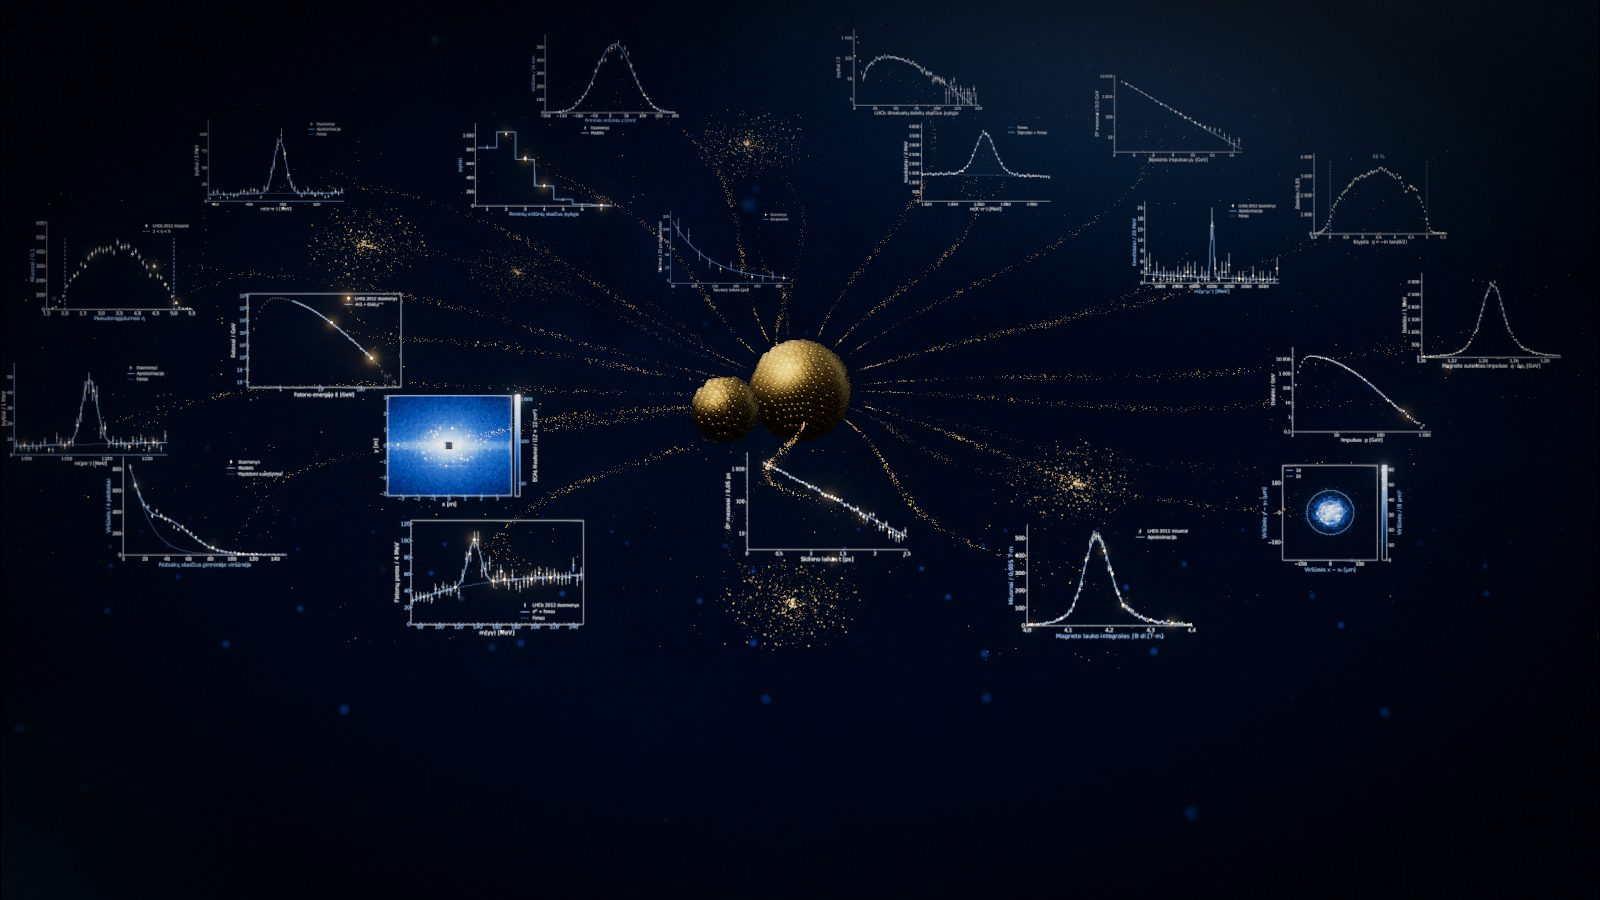
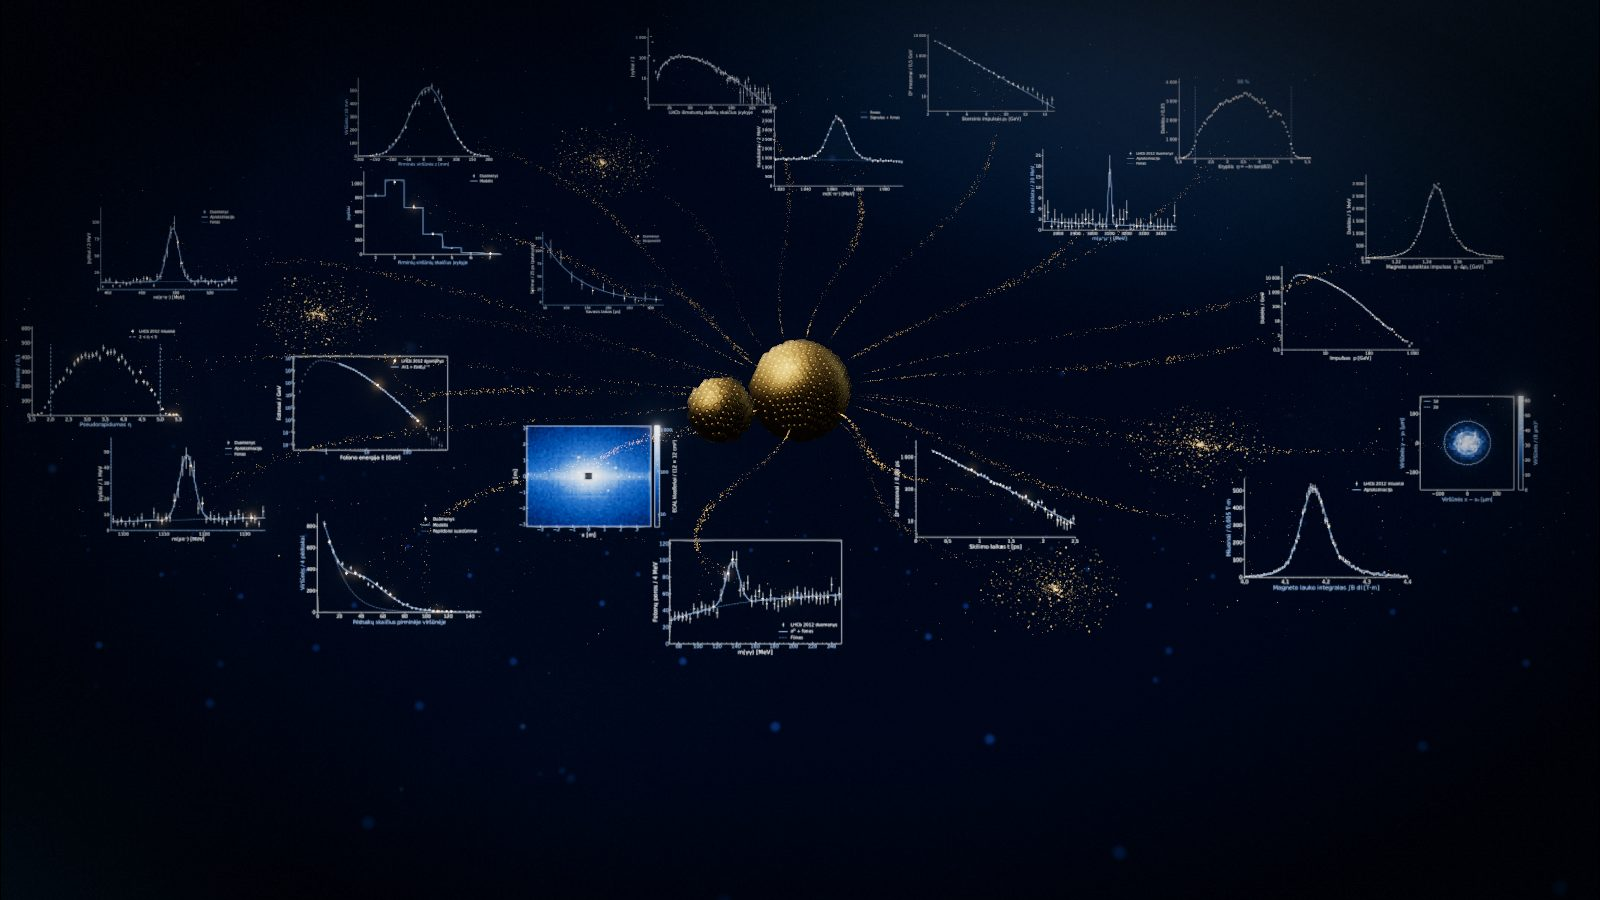
docs(opendata): the Vilnius sun in the notes and its stills — slide 12 is a second `sun`, laid out with tools/sun_layout; the r3 deploy (3fe3545, Pages run 38288574537) in the handoff
Claude-Session: https://claude.ai/code/session_015ci3AXr22gLvDXqMS8LhNF

diff --git a/talks/2026_10_21_OpenData/CLAUDE.md b/talks/2026_10_21_OpenData/CLAUDE.md
@@ -27,7 +27,9 @@ Fourteen slides (HANDOFF.md has the history and the owner's open questions):
 6. to 10. The piles in the space of data: 1 TB, 800 TB (with the owner's name and
    VU's 2025 open-science award in `.readout .who`), 4 PB, 100 PB, 1 300 000 TB.
 11. The sun of plots: who uses the open data.
-12. Vilnius: what the group does with it (FAIR, theses, the masterclass).
+12. Vilnius: what the group does with it, a second `sun` (`vilnius`): nine named
+    clusters (FAIR, reproducible analyses, theses, the masterclass, …) and four
+    empty places, turning in 3D round the pile, one step (`vilnius: 1`).
 13. Dominykas: his decays fall into m(J/ψ p) and rise into the pentaquark.
 14. „Ačiū“: the group's ring of faces, a beam of gold grains running through it.
 
@@ -36,7 +38,13 @@ Talk-owned builders, all registered from `setup/main.ts`:
   and `histogram` (described below).
 - `setup/dataspace.js`: `dataspace`, the web of filaments behind the piles on 6
   to 10. `setup/weave.js` weaves it, pure and seeded.
-- `setup/sun.js`: `sun`, the rays out to the plots and to the empty places on 11.
+- `setup/sun.js`: `sun`, the rays out to the plots and to the empty places on 11,
+  and to the named clusters on 12 (items with a `label`). Slide 12's layout and
+  pose were searched so every name reads while the sun turns, out of the
+  vignette and the role box: `tools/sun_layout/` (layout.py, the model;
+  anneal.py, the search; report.py; export.py, into space.json and the pose;
+  batch.sh, many seeds in the render slot). Moving slide 12's pose or changing
+  a name's words means searching again.
 - `setup/ring.js` and `setup/beam.js`: the „Ačiū“ ring's motion and its beam.
 
 `stage:check` takes `--types lineup,streams,floor,portraits,collision,

diff --git a/talks/2026_10_21_OpenData/HANDOFF.md b/talks/2026_10_21_OpenData/HANDOFF.md
@@ -28,6 +28,11 @@ videos-2026-10-00-opendata.
 The owner's r3 list (2026-10-12) and the deck that answers it. The slide map
 and the builders are in the talk's CLAUDE.md, "The deck now (r3)".
 
+- Deployed 2026-10-12 under the standing rule, with the cover and without the
+  Vilnius sun: 3fe3545 on main, Pages run 38288574537 (success). The URL
+  answers 200, and `talk deploy`'s live check passed (14 slides, none failed).
+  `talk ready` had passed on 3fe3545 with nothing skipped.
+
 - The way in:
   - CERN from above (slide 2), pushing into the ring.
   - The tunnel (3), pushing into the pipe.
@@ -56,9 +61,11 @@ and the builders are in the talk's CLAUDE.md, "The deck now (r3)".
   bachelor's theses. „O vietos naujiems darbams dar yra.“
   - No master's thesis on LHCb open data is public yet; the theses line is on
     the owner's word.
-  - The 3D fan with empty clusters (the owner: "a few more floating clusters
-    so we explain this is extendable") is on wip/od-vilnius, to follow as its
-    own deploy.
+  - The fan is a `sun` of its own: nine named clusters and four empty places
+    turning round the pile in 3D (the owner: "a few more floating clusters so
+    we explain this is extendable"). Built on wip/od-vilnius and merged after
+    the cover's deploy. The names read at 184–212 of 255 in 4K: brighter
+    needs a glow on the letters or a deck-wide `vignette`/`exposure` change.
 - Cut: the course slide (D⁰ histogram) and the finds slide (76 of 86). The
   owner: "don't need it", "also don't need slide 13".
 - „Ačiū“ (14): the faces run round a beam of gold grains. The beam parts round
